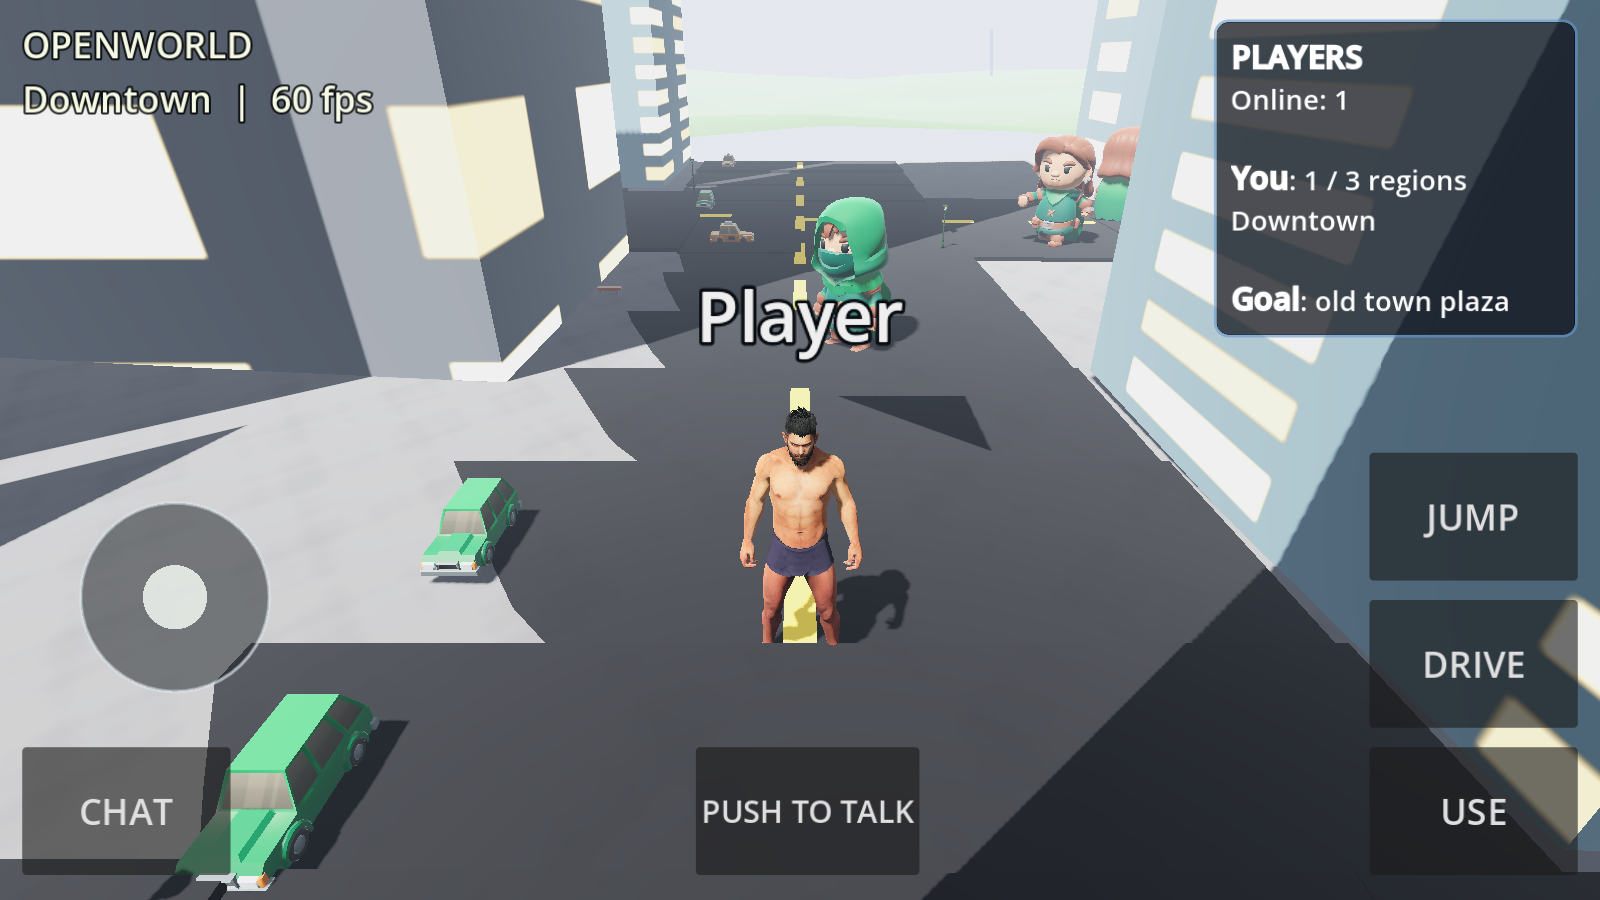
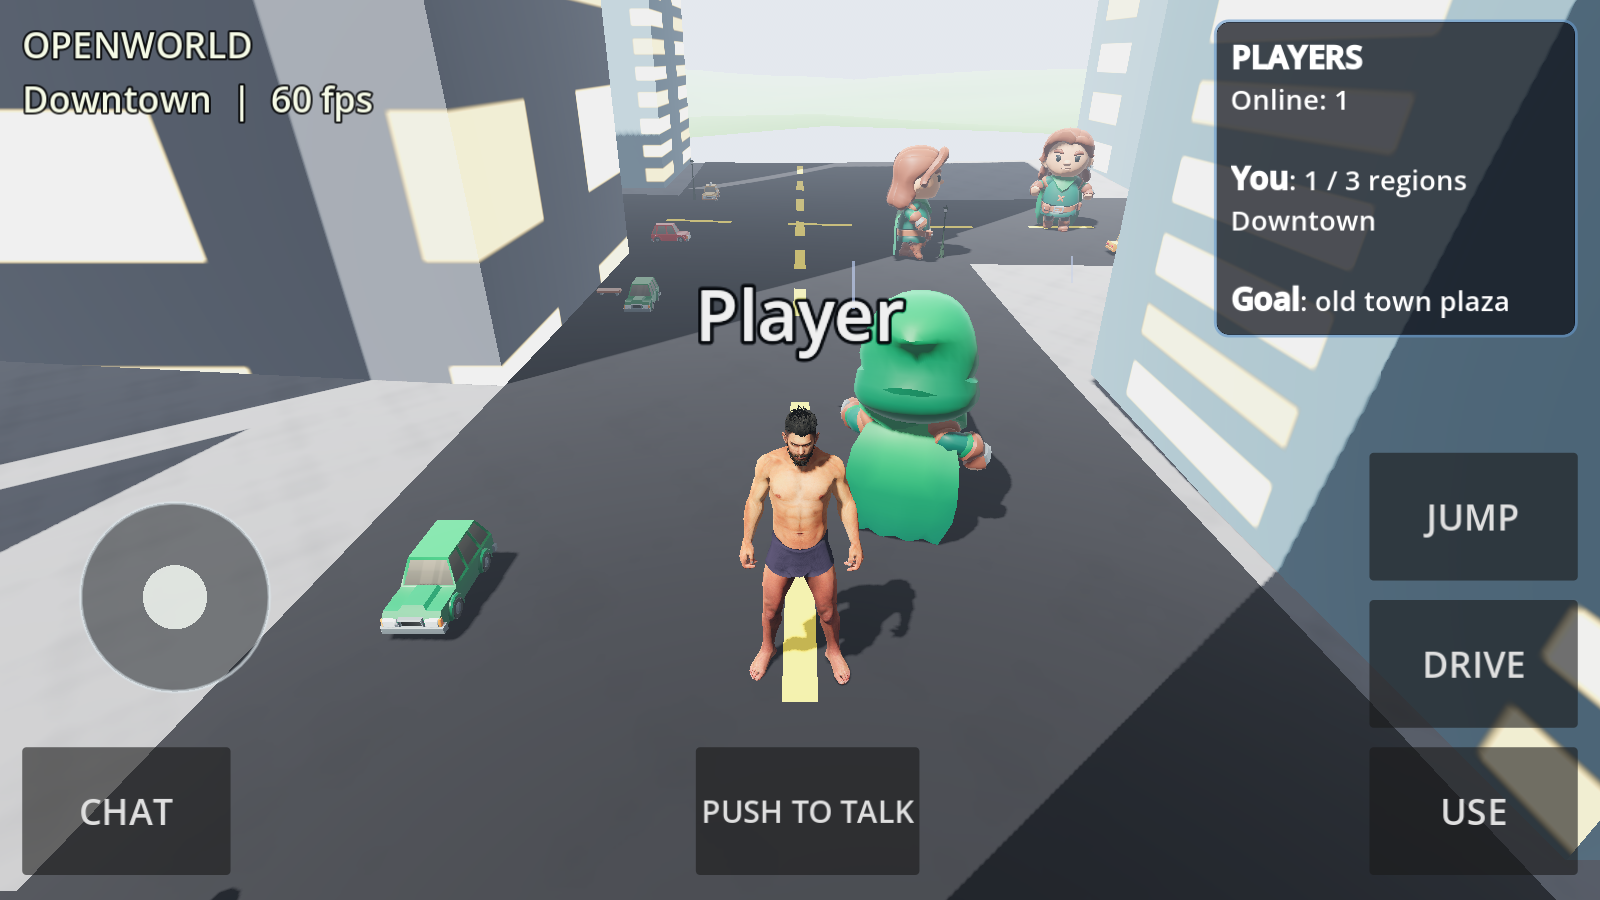
Align open-world roads and add gameplay screenshots

diff --git a/README.md b/README.md
@@ -23,6 +23,18 @@ The game does not play background music; sound effects and ambient sounds remain
 
 ## Screenshots
 
+### Login
+
+![PurpleShoe login screen](./screenshots/login.png)
+
+### Character selection
+
+![Character selection with the goalkeeper selected](./screenshots/character-selection.png)
+
+### Game lobby
+
+![Game lobby match invitation setup](./screenshots/game-lobby.png)
+
 ### Football match
 
 ![HUMAN versus ROBOT football match](./screenshots/football-match.png)
@@ -31,9 +43,17 @@ The game does not play background music; sound effects and ambient sounds remain
 
 ![Free-kick striker facing the goal](./screenshots/free-kick.png)
 
+### Goalkeeper
+
+![Goalkeeper defending a free kick](./screenshots/goalkeeper.png)
+
 ### Open world
 
 ![Exploring the downtown open world](./screenshots/open-world.png)
+
+### Lamborghini
+
+![Driving the Lamborghini through downtown](./screenshots/lamborghini.png)
 
 ## Highlights
 
